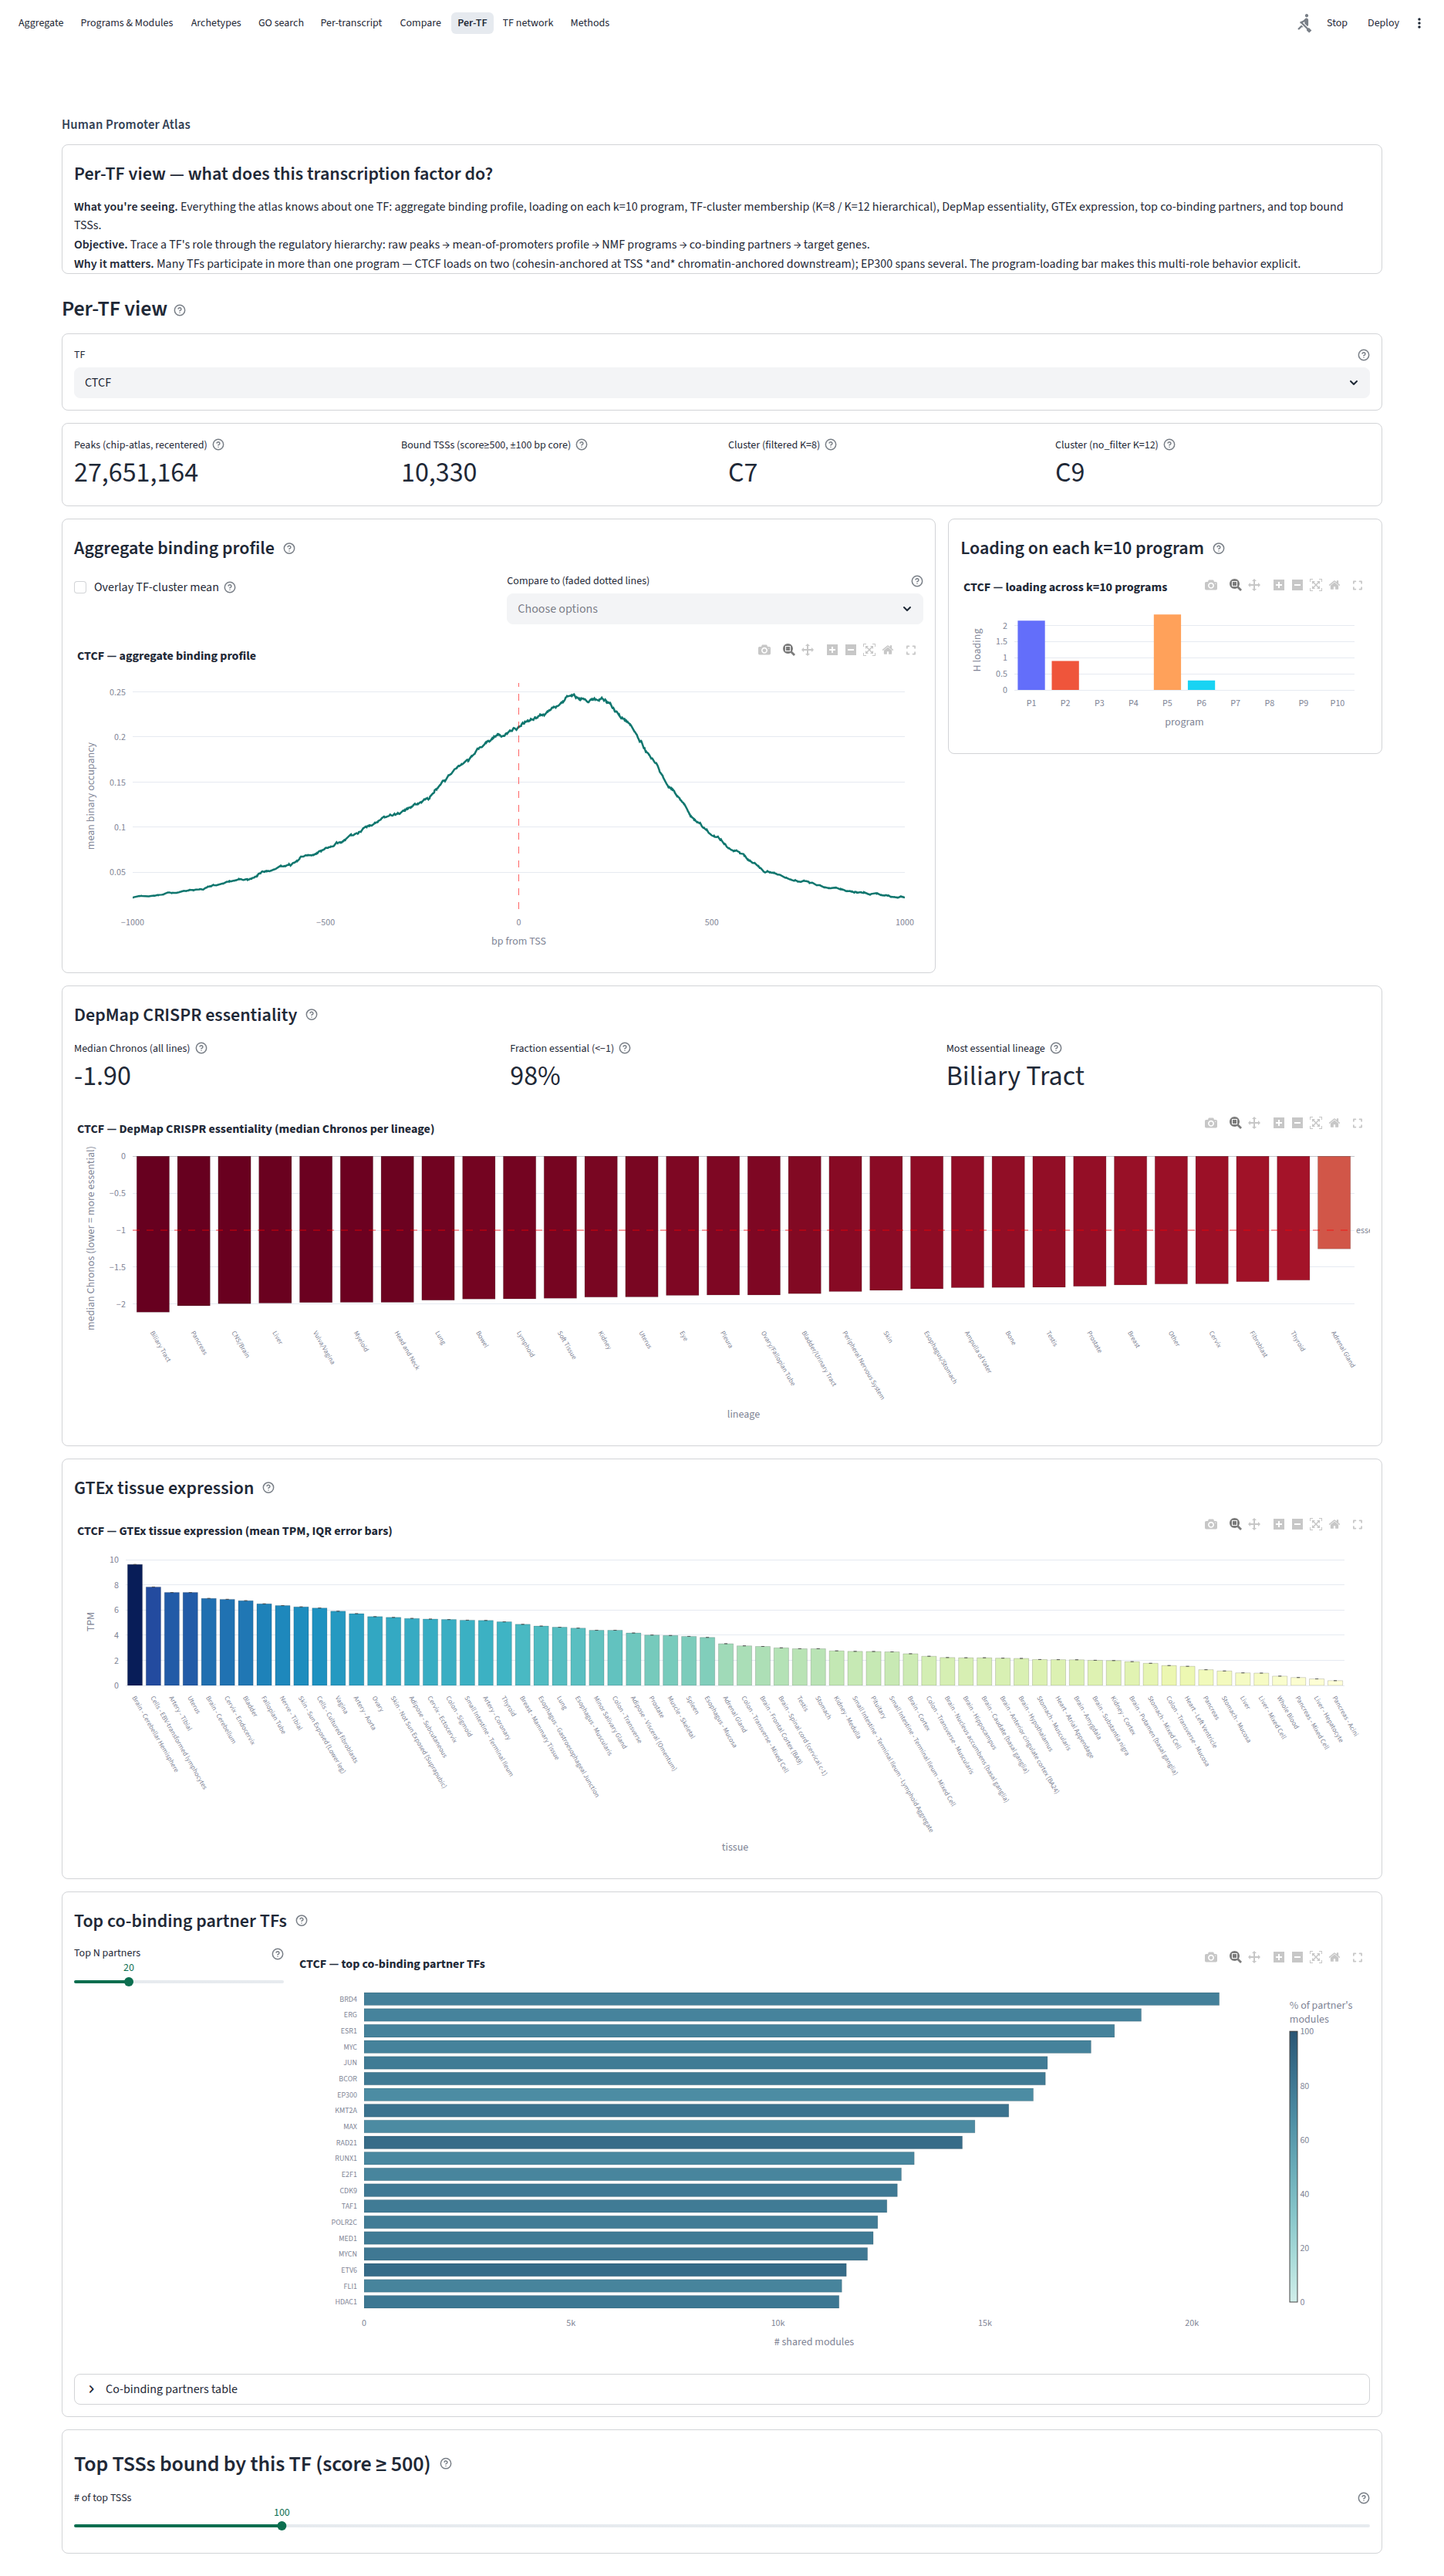
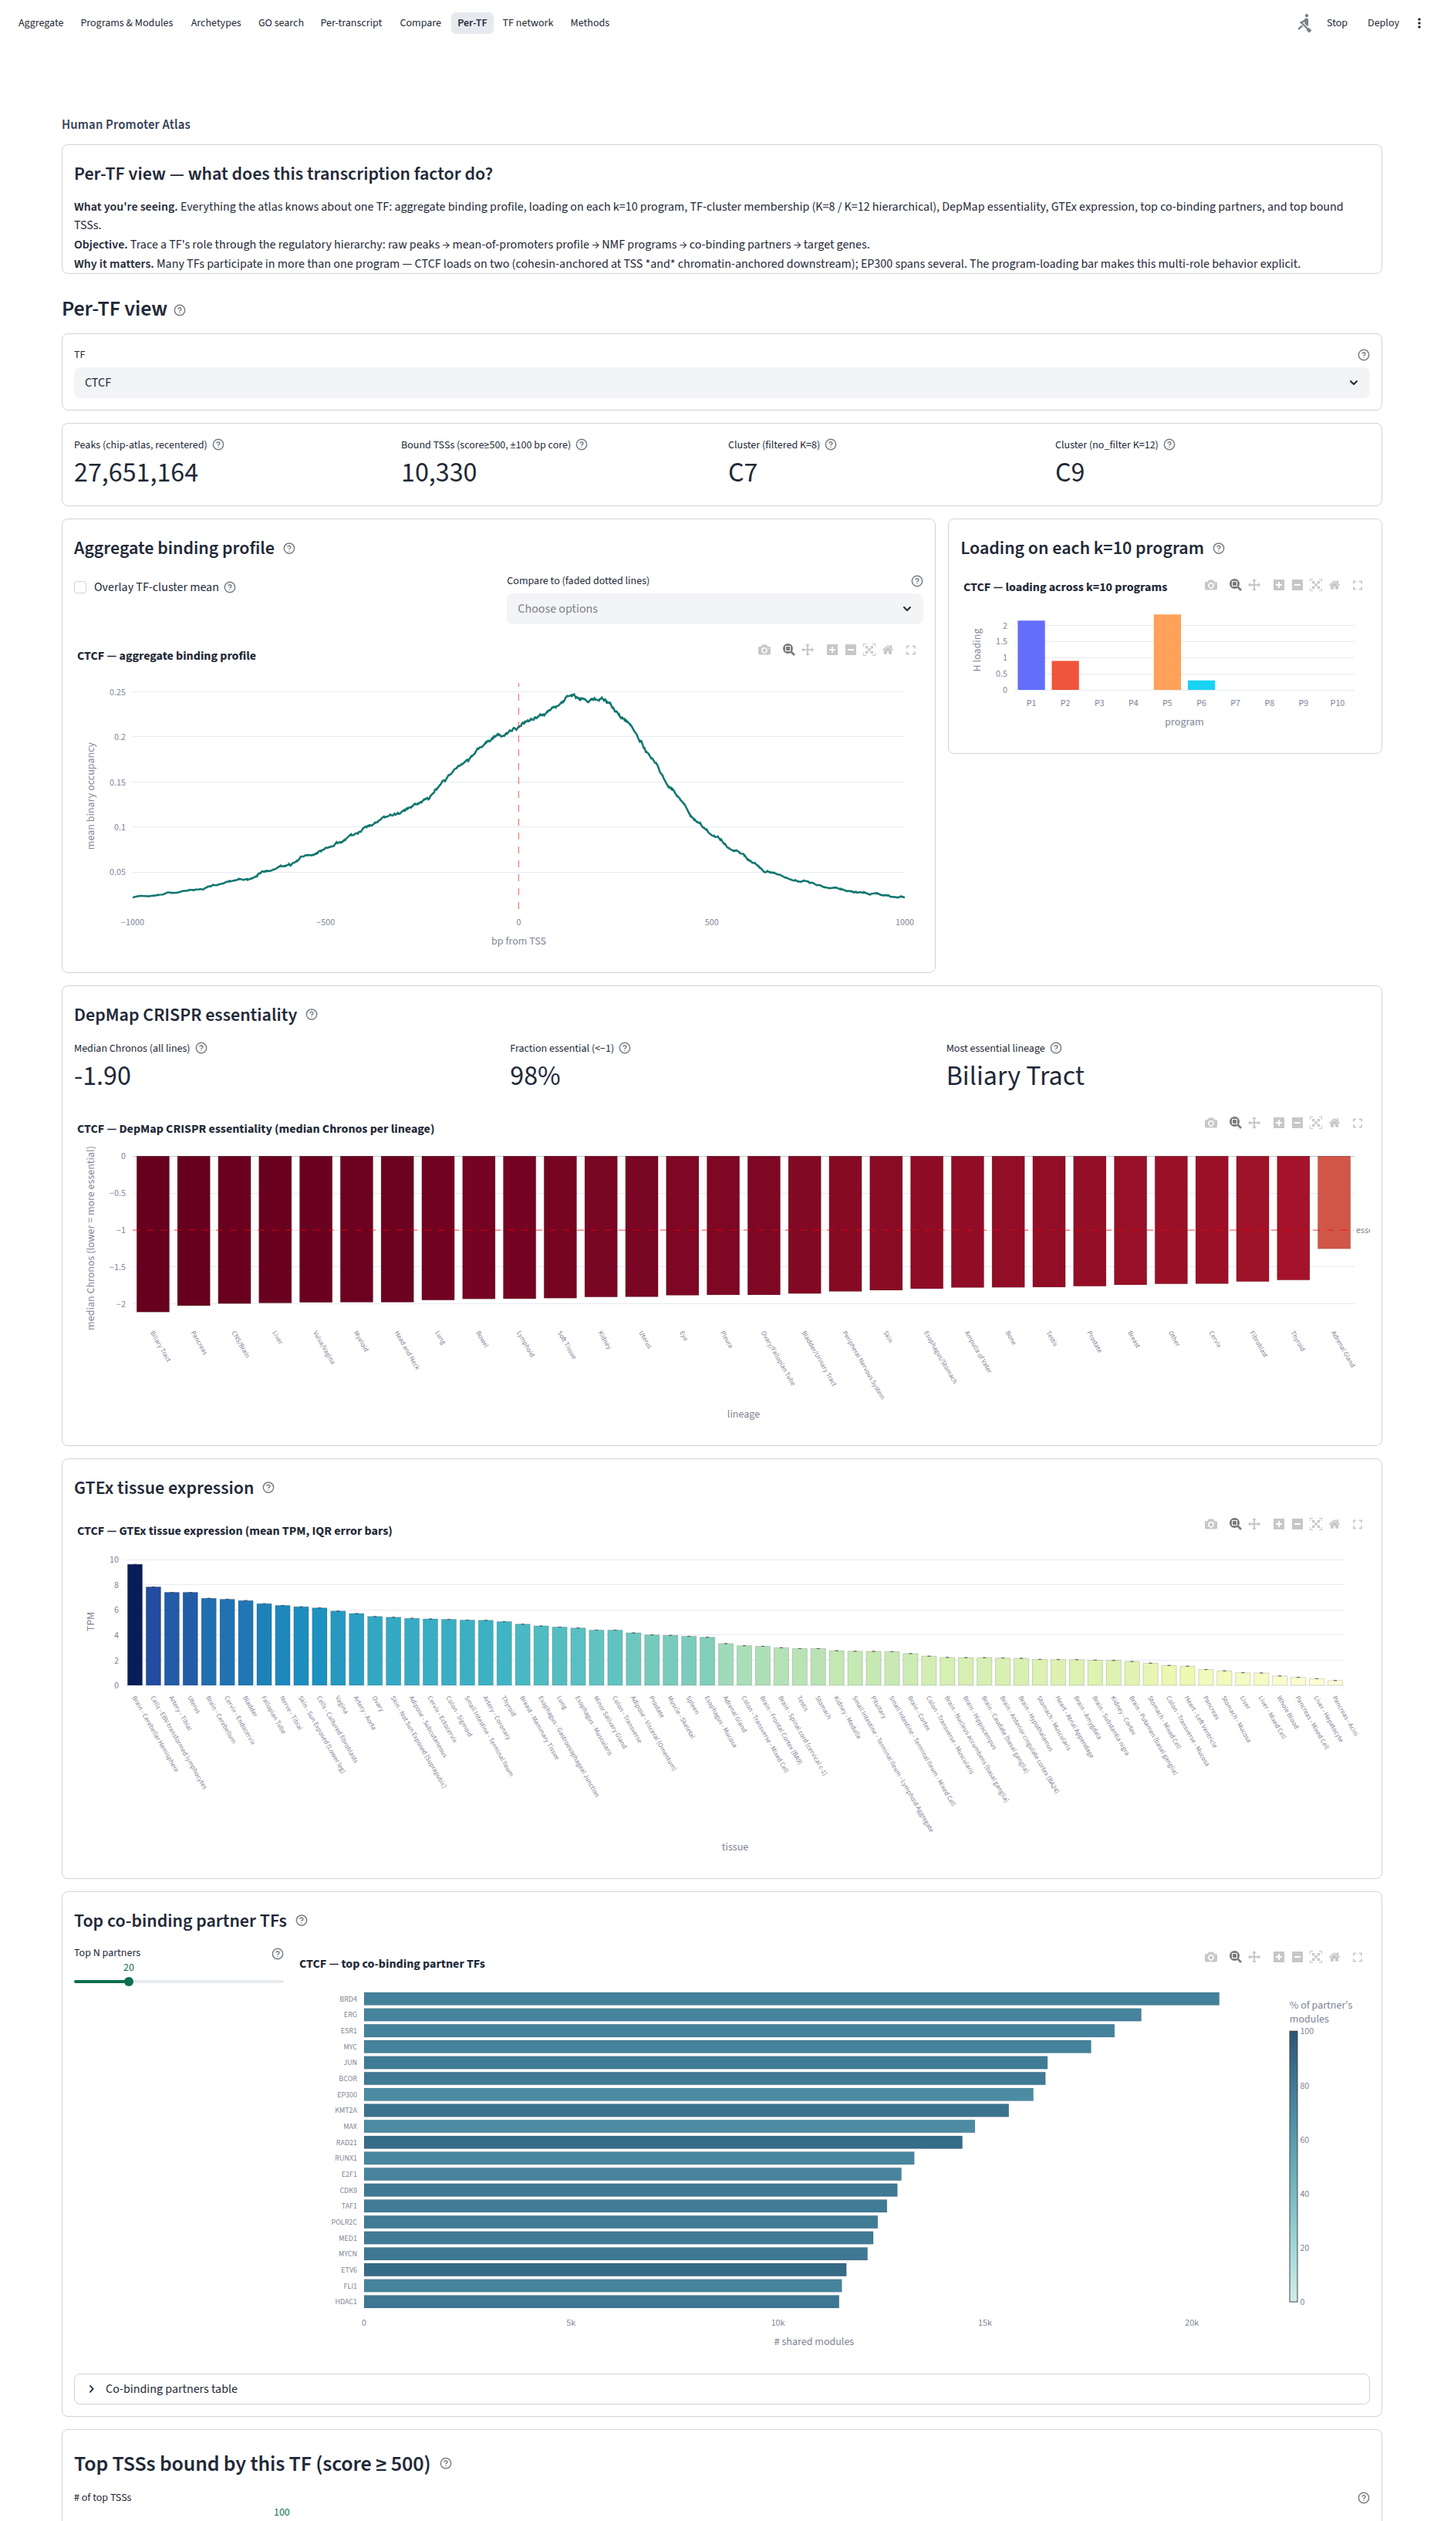
Strip private-repo footer from screenshots; add live-site URL
Each screenshot ended with a footer caption linking to the *private*
github.com/thirtysix/canonical-promoters source. The viewer was running
that codebase when the captures were taken; the public viewer's footer
has the link stripped, so the screenshots now match what a public user
will see. Detected the footer band via a "thin bottom content cluster
separated by a whitespace gap" heuristic so the crop survives pages
that end in tables / expanders / plots.

Also added "Live at https://tfbss.org" near the top of the README.

diff --git a/README.md b/README.md
@@ -1,5 +1,7 @@
 # Human Promoter Atlas
 
+**Live at https://tfbss.org**
+
 Interactive web companion to a canonical-promoter analysis: TF ChIP-seq
 binding patterns at the TSSs of all canonical protein-coding transcripts
 in the human genome (Ensembl GRCh38.114), plus the per-gene regulatory
